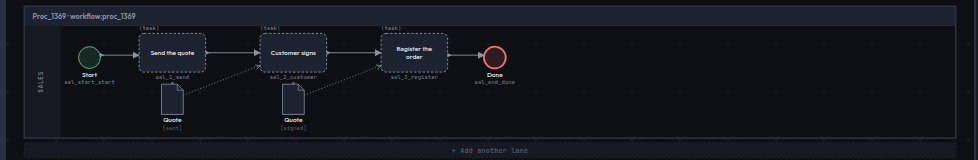
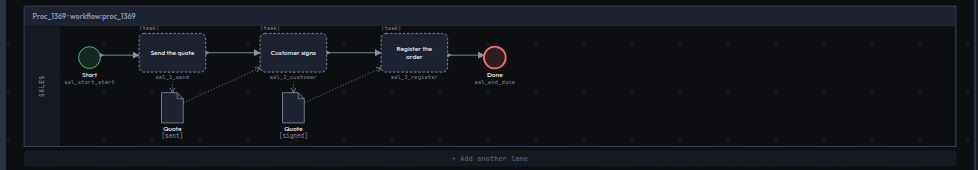
T-1369: advisory sweep — producer arrows visible below the task's id (gap 34), document states brighter (own class, 10px); screenshots retaken, gate green

diff --git a/src/aef-workflow-designer.html b/src/aef-workflow-designer.html
@@ -680,6 +680,8 @@ font-family: 'Outfit';
   .node-shape { transition: stroke-width 0.1s ease; }
   .node-label { fill: var(--text); font-family: var(--sans); font-size: 11px; font-weight: 500; pointer-events: none; }
   .node-label-sub { fill: var(--text-faint); font-family: var(--mono); font-size: 9px; pointer-events: none; }
+  /* T-1369: a document's [state]: brighter and larger than a sub-label, it is what makes the document a trigger (sweep) */
+  .data-state-label { fill: var(--text-dim); font-family: var(--mono); font-size: 10px; pointer-events: none; }
   /* Global label size (T-085): keyed off data-lsize on the svg root. The
      lane-fit ladder's explicit shrink steps use inline style, which wins
      over these rules by cascade priority. */
@@ -14916,7 +14918,7 @@ function renderCollab() {
 //     task's CURRENT position (a kept BPMNEdge would point where the task was in the file), with an open arrowhead
 //     towards the receiver: task -> document for an output, document -> task for an input.
 // Data stores (bpmn:dataStoreReference) are not drawn yet; they stay kept as before.
-const DATA_DOC_W = 36, DATA_DOC_H = 50, DATA_DOC_GAP = 20, DATA_DOC_SPACING = 24, DATA_LABEL_CH = 18, DATA_LABEL_LINE = 12;
+const DATA_DOC_W = 36, DATA_DOC_H = 50, DATA_DOC_GAP = 34, DATA_DOC_SPACING = 24, DATA_LABEL_CH = 18, DATA_LABEL_LINE = 12;
 const DATA_LANE_MARGIN = 10;   // below the lowest label line, inside the lane
 // The labels under a document: its name wrapped, then [state]; the lines renderData draws and growLanesForDocuments makes room for.
 function dataLabelLines(d) { return [...(d.name ? wrapText(d.name, DATA_LABEL_CH) : []), ...(d.state ? ['[' + d.state + ']'] : [])]; }
@@ -15018,7 +15020,7 @@ function renderData() {
     grp.appendChild(el('path', { d: `M${d.x + d.w - f},${d.y} V${d.y + f} H${d.x + d.w}`, fill: 'none', stroke: 'var(--text-dim)', 'stroke-width': '1.1' }));
     const lines = dataLabelLines(d);
     lines.forEach((t, i) => grp.appendChild(el('text', { x: d.x + d.w / 2, y: d.y + d.h + 13 + i * DATA_LABEL_LINE, 'text-anchor': 'middle',
-      class: i < lines.length - (d.state ? 1 : 0) ? 'node-label' : 'node-label-sub', 'data-data-label': d.id }, [text(t)])));
+      class: i < lines.length - (d.state ? 1 : 0) ? 'node-label' : 'data-state-label', 'data-data-label': d.id }, [text(t)])));
     g.appendChild(grp);
   }
 }

diff --git a/.tasks/active/T-1369-b1-t-1363-go-draw-documents--bpmn-data-o.md b/.tasks/active/T-1369-b1-t-1363-go-draw-documents--bpmn-data-o.md
@@ -119,7 +119,7 @@ below are revised to match.
   tasks, four associations), each reference is drawn as a BPMN data-object shape with its name and `[state]`. It sits
   centred under its producing task (the stated rule, in the code comment), with a dotted association line and an open
   arrowhead per direction (output: task → document; input: document → task).
-- [x] The anchor task's lane grows to hold its documents and their labels (130 → 186 on the fixture), the lanes below
+- [x] The anchor task's lane grows to hold its documents and their labels (130 → 200 on the fixture), the lanes below
   move down with their nodes, and a reopened save is identical (nothing grows twice). Checked on WT-01 too (not
   committed: client data): all 5 documents inside their lanes.
 - [x] The save keeps every data element and association (T-1096 round trip, `_t1222`, `_t1264`, `_t1119`,
@@ -355,7 +355,17 @@ What was read:
     "[sent]" / "[signed]" in the muted mono style;
   - the outputs as short dotted lines down from the task, the inputs as diagonal dotted lines up to the next task's
     lower left, arrowheads open and pointing at the receiver;
-  - the lane grown to 186 px with the labels inside.
+  - the lane grown to 200 px with the labels inside.
+
+**Advisory sweep** (codex, worker t1369-advisory-63f854088d02, 2026-11-02, before the official review). It found the
+relationships understandable, the arrows pointing at the consumer, and nothing overlapping, clipped or leaving the lane.
+Two points were acted on, then the screenshots were retaken and the gate re-run:
+- The producer arrows were short and ran mostly through the task's id caption, so they were hard to tell apart. The gap
+  under the task is now 34 px instead of 20, so each arrow shows below the caption. That costs 14 px of lane height
+  (130 → 200 on the fixture).
+- The [state] labels were dim. They now have their own class, `--text-dim` and 10 px mono, instead of the faint 9 px
+  sub-label.
+Not acted on: small text in the whole-window shots (the fit zoom), and the empty canvas right of a short flow.
 - **WT-01** (not committed: client data): geometry checked by script. All 5 references sit inside their anchor's lane:
   Klant/dealer 216, Verkoper 194 and Tacton CPQ 206, from 130.
 
